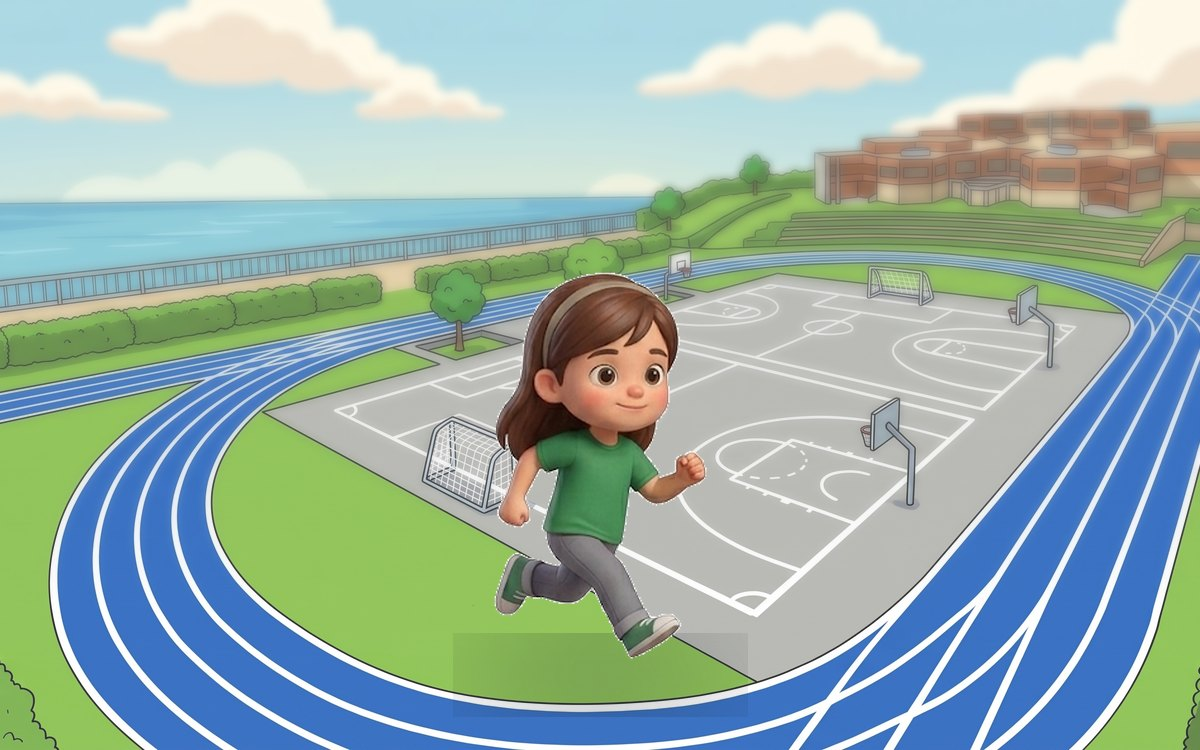
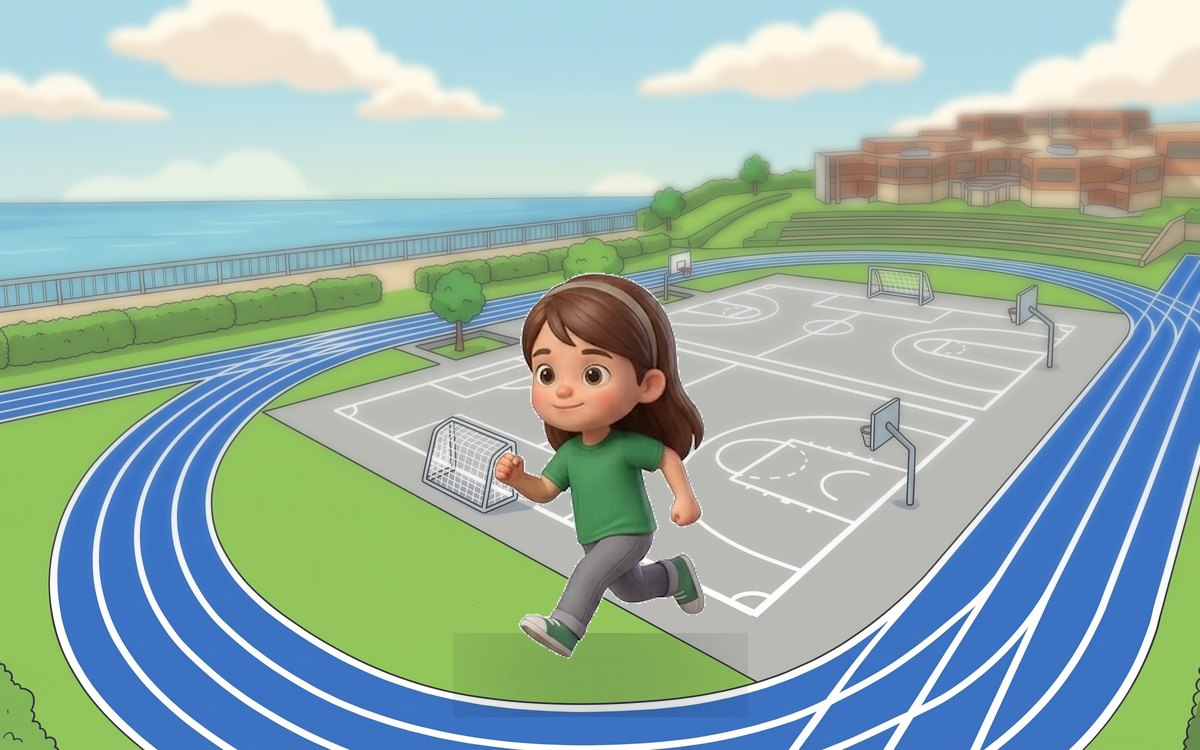
Los personajes miran hacia lo que presentan
Pip senalaba a la izquierda mientras las actividades estaban a la derecha,
y en los cuentos Freya decia 'Look! A little bird' mirando al margen con
el pajaro al otro lado. Los dibujos no son simetricos: la pose 2 senala a
nuestra izquierda, la 7 corre a la derecha y Pip esta girado a la
izquierda en casi todas.

engine/orientacion.js anota, mirando las hojas de contacto de los tres
niveles, hacia donde mira cada pose —solo las que tienen direccion clara;
lo frontal se deja—. El motor voltea al hablante para que mire a su
bocadillo, y las laminas y los cuentos voltean a quien esta a la
izquierda para que mire hacia dentro de la pagina, que es como se compone
una ilustracion. No hay arte nuevo: es el mismo PNG reflejado, y el
generador de laminas y el de cuentos leen el mismo catalogo que el motor
para que no acaben diciendo cosas distintas.

Changed region(s): [[0.4008, 0.368, 0.5858, 0.8893]]

diff --git a/engine/index.html b/engine/index.html
@@ -400,6 +400,7 @@ if(/\.github\.io$/i.test(location.hostname)){
 <script src="crossword-layout.js"></script>
 <script src="emoji-map.js"></script>
 <script src="vocab-art.js?v=1"></script>
+<script src="orientacion.js?v=1"></script>
 <script src="screens.js?v=4"></script>
 <script src="banner.js?v=4"></script>
 <script src="magicbox.js?v=4"></script>
@@ -556,7 +557,7 @@ async function hub(){
           poster="../assets/videos/posters/${idx.mascot}-intro.jpg?v=${VIDEO_V}"
           onerror="this.closest('.scr-centro').querySelector('.ficha').hidden=true"></video>
         <div class="ficha">
-          <img src="${CHAR(idx.mascot,1)}" alt="" ${FB}>
+          <img src="${CHAR(idx.mascot,1)}" alt=""${window.miraHacia ? miraHacia(LEVEL, idx.mascot, 1, 'der') : ''} ${FB}>
           <p><b>${mascota}</b> is ${(MASCOTA[idx.mascot]||{}).que||'your guide'}.
              “${(MASCOTA[idx.mascot]||{}).dice||''}”</p>
         </div>
@@ -630,8 +631,12 @@ const GUIA = { starters: 'pip', movers: 'luna', flyers: 'kili' };
 function guiaHTML(texto, etiqueta){
   const m = GUIA[LEVEL] || 'pip';
   const nombre = m[0].toUpperCase() + m.slice(1);
+  // La mascota se pone a la IZQUIERDA del bocadillo, asi que tiene que
+  // mirar a la derecha: Pip senala a la izquierda en esta pose y acababa
+  // apuntando fuera de la pantalla, con las actividades al otro lado.
+  const giro = window.miraHacia ? miraHacia(LEVEL, m, 3, 'der') : '';
   return `<div class="guia">
-    <img class="guia-mascota" src="${CHAR(m, 3)}" alt="${nombre}" ${FB}>
+    <img class="guia-mascota" src="${CHAR(m, 3)}" alt="${nombre}"${giro} ${FB}>
     <div class="guia-globo">
       <p>${esc(texto)}</p>
       <button class="guia-say" type="button">🔊 ${etiqueta || 'Listen'}</button>
@@ -804,12 +809,15 @@ async function unit(){
           <p id="lahistoria">${marcaClaves(makeIntro(UD), UD.wordlist)}</p>
           <button class="guia-say historia-say" type="button">🔊 Listen to the story</button>
         </div>
-        ${UD.scene && UD.scene.bubble ? `<div class="guia">
-          <img class="guia-mascota" src="${CHAR(UD.scene.speaker || (UD.characters||[])[0] || 'freya', 3)}"
-               alt="" ${FB}>
+        ${UD.scene && UD.scene.bubble ? (() => {
+          const quien = UD.scene.speaker || (UD.characters||[])[0] || 'freya';
+          const giro = window.miraHacia ? miraHacia(LEVEL, quien, 3, 'der') : '';
+          return `<div class="guia">
+          <img class="guia-mascota" src="${CHAR(quien, 3)}"
+               alt=""${giro} ${FB}>
           <div class="guia-globo" data-voz="bubbles"><p>${esc(UD.scene.bubble)}</p>
             <button class="guia-say" type="button">🔊 Listen</button></div>
-        </div>` : ''}
+        </div>`; })() : ''}
       </div>`,
       alMostrar(el){
         const p = el.querySelector('#lahistoria');

diff --git a/engine/orientacion.js b/engine/orientacion.js
@@ -1,0 +1,47 @@
+/* Hacia donde mira o senala cada pose.
+ *
+ * Los dibujos no son simetricos: la pose 2 de los ninos de Starters senala
+ * con el dedo hacia NUESTRA izquierda, la 7 corre hacia la derecha, y Pip
+ * esta girado a la izquierda en casi todas. Cuando el personaje se coloca a
+ * la izquierda de lo que presenta —las actividades, un objeto de la lamina,
+ * el bocadillo— acaba senalando fuera de la pantalla, que es justo lo
+ * contrario de lo que la ilustracion tiene que hacer.
+ *
+ * Aqui se anota solo lo que se ve sin discusion. Lo que mira de frente no
+ * entra: voltear una figura frontal no arregla nada y puede estropear una
+ * asimetria buscada (una mochila, un objeto en una mano).
+ *
+ * Quien lo usa da vuelta la imagen con scaleX(-1) cuando la direccion no
+ * apunta al contenido. No hay arte nuevo: es el mismo PNG reflejado.
+ *
+ * Comprobado mirando las hojas de contacto de los tres niveles el
+ * 27-ago-2026. Si se anaden poses, se miran y se anotan aqui.
+ */
+window.ORIENTACION = {
+  // Starters: los cuatro ninos comparten set de poses
+  'starters/freya':  { 2: 'izq', 7: 'der' },
+  'starters/nico':   { 2: 'izq', 7: 'der' },
+  'starters/astrid': { 2: 'izq', 7: 'der' },
+  'starters/tomas':  { 2: 'izq', 7: 'der' },
+  // Pip esta girado a la izquierda en casi todas
+  'starters/pip':    { 1: 'izq', 2: 'izq', 3: 'izq', 4: 'izq' },
+
+  'movers/erik':      { 7: 'der' },
+  'movers/valentina': { 7: 'der' },
+  'movers/sofia':     { 7: 'der' },
+  'movers/mateo':     { 2: 'izq', 7: 'der' },
+  'movers/luna':      { 2: 'der' },
+
+  'flyers/ingrid': { 4: 'der', 7: 'izq' },
+  'flyers/maya':   { 7: 'izq' },
+  'flyers/oliver': { 7: 'izq' },
+  'flyers/kili':   { 2: 'izq' },
+};
+
+/* Devuelve el style que hay que ponerle a la imagen para que mire hacia
+   `hacia` ('izq' o 'der'). Vacio si ya mira bien o si la pose es frontal. */
+window.miraHacia = function (nivel, slug, pose, hacia) {
+  const ficha = window.ORIENTACION[nivel + '/' + slug];
+  const tiene = ficha && ficha[Number(pose)];
+  return (tiene && tiene !== hacia) ? ' style="transform:scaleX(-1)"' : '';
+};

diff --git a/tools/build_unit_scenes.py b/tools/build_unit_scenes.py
@@ -11,7 +11,7 @@ los personajes y no usaban el campus, que es lo que da identidad al curso.
 
     python tools/build_unit_scenes.py
 """
-import os
+import io, os, re
 from PIL import Image, ImageDraw, ImageFilter
 
 ROOT = os.path.dirname(os.path.dirname(os.path.abspath(__file__)))
@@ -229,6 +229,42 @@ def plano_zoo(alto):
     return im
 
 
+# Hacia donde mira cada pose. Es el mismo dato que usa el motor: se lee de
+# engine/orientacion.js para no mantener dos listas que se separan sola.
+def _orientaciones():
+    p = os.path.join(ROOT, "engine", "orientacion.js")
+    fuera = {}
+    try:
+        txt = io.open(p, encoding="utf-8").read()
+    except Exception:
+        return fuera
+    for m in re.finditer(r"'([a-z]+)/([a-z]+)':\s*\{([^}]*)\}", txt):
+        nivel, quien, cuerpo = m.group(1), m.group(2), m.group(3)
+        for pose, lado in re.findall(r"(\d+)\s*:\s*'(izq|der)'", cuerpo):
+            fuera[(quien, int(pose))] = lado
+    return fuera
+
+
+ORIENTACION = _orientaciones()
+
+
+def mira_bien(im, quien, pose, x):
+    """Voltea al personaje para que mire hacia dentro de la lamina.
+
+    En una ilustracion los personajes miran hacia el centro, no hacia el
+    borde: el que esta a la izquierda mira a la derecha y al reves. Sin
+    esto, Freya decia "Look! A little bird" mirando al margen mientras el
+    pajaro estaba al otro lado.
+
+    Solo se voltea lo que tiene direccion anotada; una figura de frente se
+    deja como esta."""
+    lado = ORIENTACION.get((quien, int(pose)))
+    if not lado:
+        return im
+    hacia = "der" if x < .5 else "izq"
+    return im.transpose(Image.FLIP_LEFT_RIGHT) if lado != hacia else im
+
+
 def carga_pieza(nombre, alto):
     """Devuelve la imagen de una pieza, sea objeto, personaje o utileria."""
     if nombre.startswith("prop:"):
@@ -318,6 +354,10 @@ def componer(fondo, piezas):
         ob = carga_pieza(nombre, int(H * ps))
         if ob is None:
             print("    falta", nombre); continue
+        # que mire hacia dentro de la lamina, no hacia el margen
+        if nombre.startswith("char:"):
+            trozos = nombre.split(":")
+            ob = mira_bien(ob, trozos[1], trozos[2] if len(trozos) > 2 else 1, px)
         cx, cy = int(W * px), int(H * py)
         ox, oy = cx - ob.width // 2, cy - ob.height // 2
         # sombra suave para asentar el objeto sobre la foto

diff --git a/tools/build_readers.py b/tools/build_readers.py
@@ -230,6 +230,40 @@ CUENTOS += CUENTOS_STARTERS2 + CUENTOS_MOVERS + CUENTOS_FLYERS
 
 
 # ------------------------------------------------------------ ilustracion
+def _orientaciones():
+    """Hacia donde mira cada pose, leido de engine/orientacion.js.
+
+    Es el mismo dato que usan el motor y las laminas de unidad: una sola
+    lista, que si se copia acaba separandose."""
+    import re
+    fuera = {}
+    try:
+        txt = io.open(os.path.join(ROOT, "engine", "orientacion.js"),
+                      encoding="utf-8").read()
+    except Exception:
+        return fuera
+    for m in re.finditer(r"'([a-z]+)/([a-z]+)':\s*\{([^}]*)\}", txt):
+        for pose, lado in re.findall(r"(\d+)\s*:\s*'(izq|der)'", m.group(3)):
+            fuera[(m.group(2), int(pose))] = lado
+    return fuera
+
+
+ORIENTACION = _orientaciones()
+
+
+def mira_bien(im, quien, pose, x):
+    """Voltea al personaje para que mire hacia dentro de la pagina.
+
+    Freya decia "Look! A little bird" mirando al margen mientras Pip estaba
+    al otro lado. En una ilustracion el que esta a la izquierda mira a la
+    derecha, y al reves. Lo que esta de frente no se toca."""
+    lado = ORIENTACION.get((quien, int(pose)))
+    if not lado:
+        return im
+    hacia = "der" if x < .5 else "izq"
+    return im.transpose(Image.FLIP_LEFT_RIGHT) if lado != hacia else im
+
+
 def carga(nombre, alto):
     if nombre.startswith("char:"):
         _, lvl, quien, pose = nombre.split(":")
@@ -269,6 +303,9 @@ def ilustra(fondo, piezas):
 
     for nombre, x, y, s in sorted(piezas, key=lambda p: p[2]):
         im = carga(nombre, int(H * s))
+        if im is not None and nombre.startswith("char:"):
+            _, _, quien, pose = nombre.split(":")
+            im = mira_bien(im, quien, pose, x)
         if im is None:
             continue
         cx, cy = int(W * x), int(H * y)
